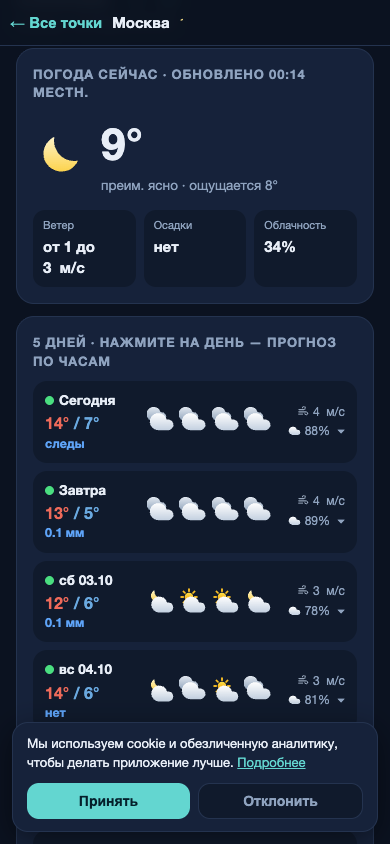
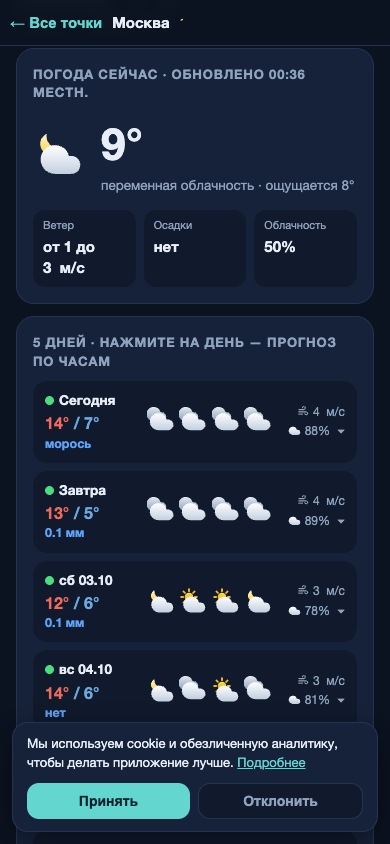
Осадки: «морось» вместо «следы», всплывающие подсказки у суммы осадков убраны полностью (только отображение; sw v3.19)

diff --git a/app.js b/app.js
@@ -194,12 +194,12 @@ function precipLabel(code, mm) {
   return "снегопад";
 }
 /* Единый форматтер КОЛИЧЕСТВА осадков для UI (сырое значение → семантика):
-   0 → «нет» (осадков нет); >0 и <0.05 → «следы» (осадки есть, но ниже точности 0.1 мм);
+   0 → «нет» (осадков нет); >0 и <0.05 → «морось» (осадки есть, но ниже точности 0.1 мм);
    >= 0.05 → обычное число мм. Округление — только после агрегации, формат прежний. */
 function precipMmText(raw) {
   if (raw == null) return { text: "—", present: false, traces: false };
   if (raw <= 0) return { text: "нет", present: false, traces: false };
-  if (raw < 0.05) return { text: "следы", present: true, traces: true };
+  if (raw < 0.05) return { text: "морось", present: true, traces: true };
   return { text: (Math.round(raw * 10) / 10).toFixed(1) + " мм", present: true, traces: false };
 }
 function esc(s) { return String(s).replace(/[&<>"]/g, c => ({ "&": "&amp;", "<": "&lt;", ">": "&gt;", '"': "&quot;" }[c])); }
@@ -889,15 +889,13 @@ async function loadPoint(id) {
   const daysHtml = d.days.map((day, i) => {
     const label = fmtDay(day.date, i);
     const prInfo = precipMmText(day.precip_raw != null ? day.precip_raw : day.precip);
-    const prTitle = prInfo.traces ? ` title="Осадки есть, но ниже точности отображения (0,1 мм)"`
-      : (day.precip_sub >= 0.05 ? ` title="В сумме с моросью ниже 0,1 мм"` : "");
     return `
       <div class="day-block">
         <div class="day-row" onclick="toggleHours(this)">
           <div class="d-left">
             <div class="d-date"><span class="vdot ${day.verdict}"></span>${label}</div>
             <div class="d-temp"><span class="d-max">${day.t_day ?? "—"}°</span><span class="d-min"> / ${day.t_night ?? "—"}°</span></div>
-            <div class="d-pr"${prTitle}>${prInfo.text}</div>
+            <div class="d-pr">${prInfo.text}</div>
           </div>
           <div class="d-icons">${periodsHtml(d, day.date, day.code)}</div>
           <div class="d-right">${WIC.wind} ${day.wind ?? "—"}  м/с<br>${WIC.cloud} ${day.cloud ?? "—"}% <span class="chev">▾</span></div>

diff --git a/web/app.js b/web/app.js
@@ -200,12 +200,12 @@ function precipLabel(code, mm) {
   return "снегопад";
 }
 /* Единый форматтер КОЛИЧЕСТВА осадков для UI (сырое значение → семантика):
-   0 → «нет» (осадков нет); >0 и <0.05 → «следы» (осадки есть, но ниже точности 0.1 мм);
+   0 → «нет» (осадков нет); >0 и <0.05 → «морось» (осадки есть, но ниже точности 0.1 мм);
    >= 0.05 → обычное число мм. Округление — только после агрегации, формат прежний. */
 function precipMmText(raw) {
   if (raw == null) return { text: "—", present: false, traces: false };
   if (raw <= 0) return { text: "нет", present: false, traces: false };
-  if (raw < 0.05) return { text: "следы", present: true, traces: true };
+  if (raw < 0.05) return { text: "морось", present: true, traces: true };
   return { text: (Math.round(raw * 10) / 10).toFixed(1) + " мм", present: true, traces: false };
 }
 function esc(s) { return String(s).replace(/[&<>"]/g, c => ({ "&": "&amp;", "<": "&lt;", ">": "&gt;", '"': "&quot;" }[c])); }
@@ -895,15 +895,13 @@ async function loadPoint(id) {
   const daysHtml = d.days.map((day, i) => {
     const label = fmtDay(day.date, i);
     const prInfo = precipMmText(day.precip_raw != null ? day.precip_raw : day.precip);
-    const prTitle = prInfo.traces ? ` title="Осадки есть, но ниже точности отображения (0,1 мм)"`
-      : (day.precip_sub >= 0.05 ? ` title="В сумме с моросью ниже 0,1 мм"` : "");
     return `
       <div class="day-block">
         <div class="day-row" onclick="toggleHours(this)">
           <div class="d-left">
             <div class="d-date"><span class="vdot ${day.verdict}"></span>${label}</div>
             <div class="d-temp"><span class="d-max">${day.t_day ?? "—"}°</span><span class="d-min"> / ${day.t_night ?? "—"}°</span></div>
-            <div class="d-pr"${prTitle}>${prInfo.text}</div>
+            <div class="d-pr">${prInfo.text}</div>
           </div>
           <div class="d-icons">${periodsHtml(d, day.date, day.code)}</div>
           <div class="d-right">${WIC.wind} ${day.wind ?? "—"}  м/с<br>${WIC.cloud} ${day.cloud ?? "—"}% <span class="chev">▾</span></div>

diff --git a/sw.js b/sw.js
@@ -1,7 +1,7 @@
 /* Минимальный service worker «Погода в горах».
    Статика — cache-first, data/points.json — network-first,
    погодные API — всегда сеть (свежесть важнее, кэширует само приложение). */
-const CACHE = "kp-weather-v3.18";
+const CACHE = "kp-weather-v3.19";
 const STATIC = [
   "./",
   "index.html",

diff --git a/web/sw.js b/web/sw.js
@@ -1,7 +1,7 @@
 /* Минимальный service worker «Погода в горах».
    Статика — cache-first, data/points.json — network-first,
    погодные API — всегда сеть (свежесть важнее, кэширует само приложение). */
-const CACHE = "kp-weather-v3.18";
+const CACHE = "kp-weather-v3.19";
 const STATIC = [
   "./",
   "index.html",
